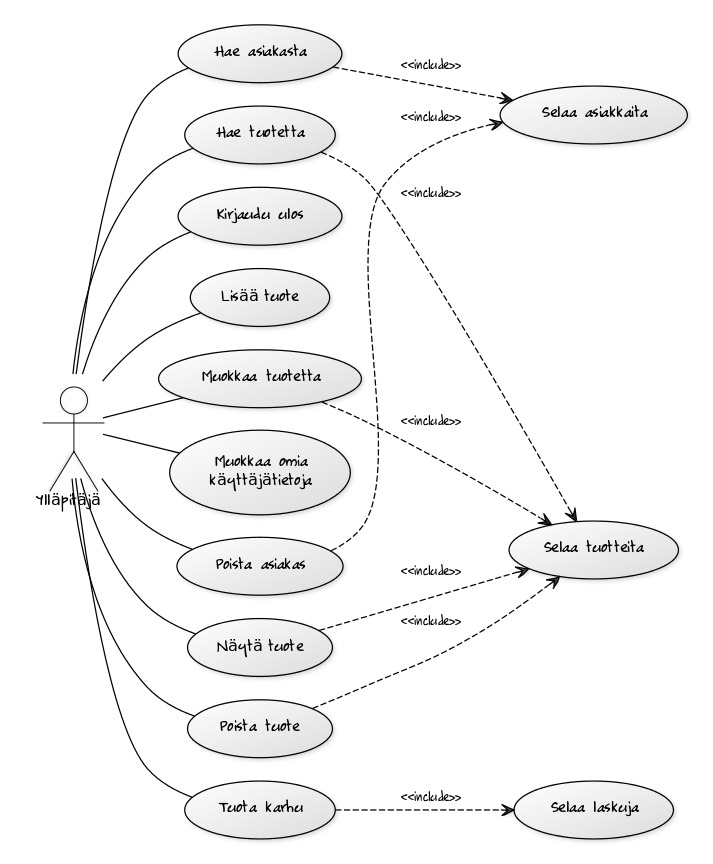
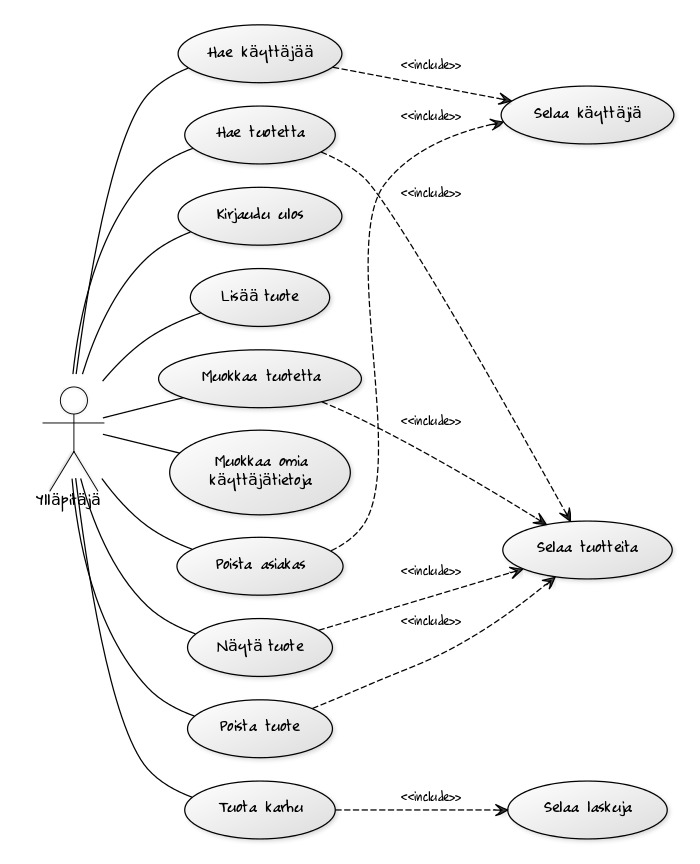
Muokattu dokumentaatiota

diff --git a/README.md b/README.md
@@ -34,7 +34,7 @@ Toimintoja:
 * tuotteiden selaussivulla voidaan tuotetta hakea sen nimen perusteella sekä tarkastella tiettyä tuotetta
 
 ##### Asiakas
-* yläpalkista löytyy linkki tuotteideen selaamiseen
+* yläpalkista löytyy linkki tuotteiden selaamiseen
 * tuotteiden selaussivulla voidaan tuotetta hakea sen nimen perusteella sekä tarkastella tiettyä tuotetta
 * tuotteen tarkastelusivulla se voidaan lisätä ostoskoriin
 * klikkaamalla yläpalkin oikeasta laidasta löytyvää käyttäjänimeä, aukeaa valikko, josta löytyy linkit omien käyttäjätietojen muokkaamiseen, omien laskujen/omien tilausten/ostoskorin selaamiseen ja uloskirjautumiseen
@@ -44,7 +44,7 @@ Toimintoja:
 ##### Ylläpitäjä
 * yläpalkista löytyy linkit uuden tuotteen lisäämiseen sekä käyttäjien/laskujen/tuotteiden selaamiseen
 * klikkaamalla yläpalkin oikeasta laidasta löytyvää käyttäjänimeä, aukeaa valikko, josta löytyy linkit omien käyttäjätietojen muokkaamiseen ja uloskirjautumiseen
-* asiakkaiden selaussivulla voidaan asiakasta hakea käyttäjänimen perusteella sekä poistaa tietty asiakas
+* käyttäjienen selaussivulla voidaan käyttäjää hakea käyttäjänimen perusteella sekä poistaa tietty asiakas
 * tuotteiden selaussivulla voidaan lisäksi muokata tiettyä tuotetta tai se voidaan poistaa järjestelmästä
 
 ### Muu dokumentaatio
